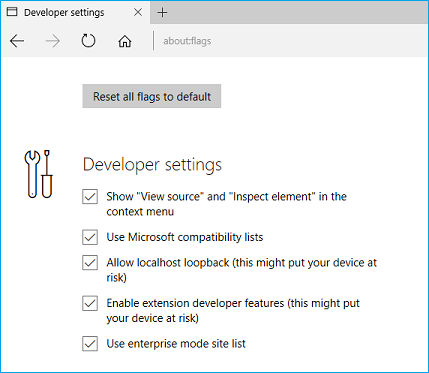
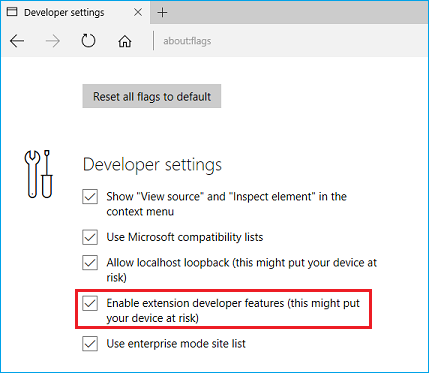
Updating extensions about:flags info

Changed region(s): [[0.1515, 0.7668, 0.8788, 0.8847]]

diff --git a/extensions/adding-and-removing-extensions/README.md b/extensions/adding-and-removing-extensions/README.md
@@ -5,7 +5,7 @@ When fully released to mainstream builds of Windows 10, extensions will be avail
 
 1. Open Microsoft Edge and type 'about:flags' into the address bar.
 
-2. Check any unchecked boxes in the "Developer settings" section.
+2. Make sure the "Enable extension developer features" box is checked.
 
    ![about:flags turn on developer features](../media/sideload-aboutflags.png)
 
